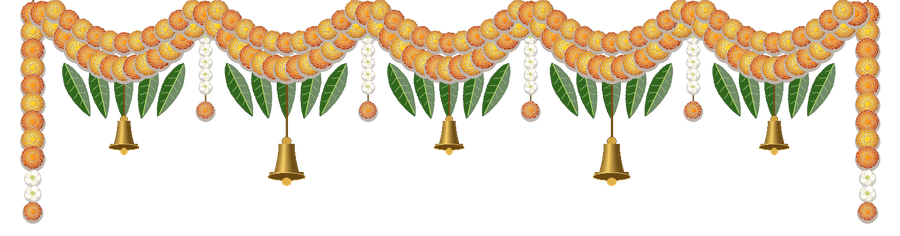
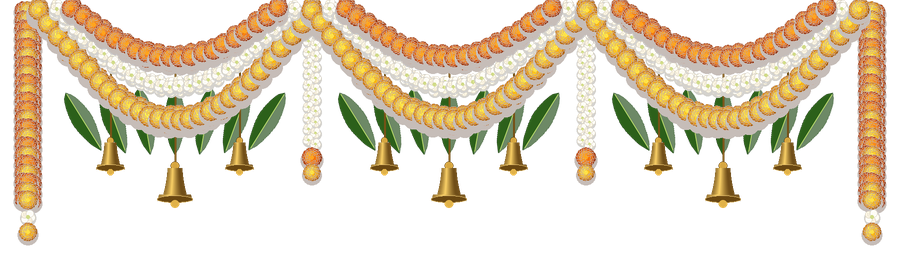
Upgrade garlands, kalash pots, editorial front-facing portraits, and painted palace footer to match references

diff --git a/app/components/CouplePortraits.js b/app/components/CouplePortraits.js
@@ -1,104 +1,90 @@
 'use client'
 
-/* Front-facing South Indian Groom in Kerala Kasavu Kurta, Mundu & Angavastram */
+/* Front-facing editorial South Indian Groom portrait matching sunil-santhiya style */
 export function FrontGroomArt() {
   return (
-    <svg className="solo-fig" viewBox="0 0 180 370" fill="none" aria-label="Vysakh portrait">
+    <svg className="solo-fig" viewBox="0 0 180 390" fill="none" aria-label="Vysakh portrait">
       <defs>
         <linearGradient id="gShirt" x1="0" y1="0" x2="1" y2="1">
-          <stop offset="0%" stopColor="#fffef8" />
-          <stop offset="65%" stopColor="#f5eedc" />
-          <stop offset="100%" stopColor="#e5d7bb" />
+          <stop offset="0%" stopColor="#ffffff" />
+          <stop offset="65%" stopColor="#f7f2e6" />
+          <stop offset="100%" stopColor="#e8dec9" />
         </linearGradient>
         <linearGradient id="gSkin" x1="0" y1="0" x2="1" y2="0">
-          <stop offset="0%" stopColor="#e2ae88" />
-          <stop offset="55%" stopColor="#d49a73" />
-          <stop offset="100%" stopColor="#be825c" />
+          <stop offset="0%" stopColor="#d9a17c" />
+          <stop offset="55%" stopColor="#cb906a" />
+          <stop offset="100%" stopColor="#b57a55" />
         </linearGradient>
         <linearGradient id="kasavu" x1="0" y1="0" x2="1" y2="0">
-          <stop offset="0%" stopColor="#b88934" />
-          <stop offset="50%" stopColor="#edd180" />
-          <stop offset="100%" stopColor="#a37626" />
+          <stop offset="0%" stopColor="#b6862e" />
+          <stop offset="50%" stopColor="#ebd07e" />
+          <stop offset="100%" stopColor="#9d7022" />
         </linearGradient>
       </defs>
 
       {/* Soft ground shadow */}
-      <ellipse cx="90" cy="356" rx="44" ry="7" fill="#b49d78" opacity="0.28" />
+      <ellipse cx="90" cy="378" rx="34" ry="5.5" fill="#9c8663" opacity="0.28" />
 
-      {/* Traditional Leather Sandals */}
-      <ellipse cx="70" cy="349" rx="14" ry="5.5" fill="#5e3820" />
-      <ellipse cx="110" cy="349" rx="14" ry="5.5" fill="#5e3820" />
-      <path d="M62 346 Q70 340 78 346 M102 346 Q110 340 118 346" stroke="#c89a4b" strokeWidth="2" />
+      {/* Traditional Sandals */}
+      <ellipse cx="77" cy="370" rx="10" ry="5" fill="#3a2315" />
+      <ellipse cx="103" cy="370" rx="10" ry="5" fill="#3a2315" />
+      <path d="M71 365 L77 372 L83 365 M97 365 L103 372 L109 365" stroke="#c89a48" strokeWidth="1.8" />
 
-      {/* Feet */}
-      <path d="M64 335 H77 L78 348 H63 Z" fill="url(#gSkin)" />
-      <path d="M103 335 H116 L117 348 H102 Z" fill="url(#gSkin)" />
+      {/* Ankles */}
+      <path d="M73 354 H81 L82 368 H72 Z" fill="url(#gSkin)" />
+      <path d="M99 354 H107 L108 368 H98 Z" fill="url(#gSkin)" />
 
-      {/* Kerala Kasavu Mundu (Front Pleated Dhoti) */}
-      <path d="M54 196 H126 L130 338 H50 Z" fill="url(#gShirt)" stroke="#cbb994" strokeWidth="1" />
-      {/* Center pleats */}
-      <path d="M84 198 V338 M96 198 V338" stroke="#d4c4a2" strokeWidth="1" />
-      {/* Gold Kasavu border & bottom trim */}
-      <rect x="50" y="324" width="80" height="8" fill="url(#kasavu)" />
-      <rect x="50" y="321" width="80" height="2" fill="#8b2238" />
-      <rect x="87" y="200" width="6" height="124" fill="url(#kasavu)" opacity="0.7" />
+      {/* Tailored White/Cream Kasavu Mundu (Dhoti) */}
+      <path d="M62 194 H118 L120 356 H60 Z" fill="url(#gShirt)" stroke="#d0c2a4" strokeWidth="1" />
+      {/* Center seam & fold shadow */}
+      <line x1="90" y1="196" x2="90" y2="356" stroke="#d5c6a8" strokeWidth="1" />
+      <rect x="74" y="194" width="3" height="162" fill="url(#kasavu)" opacity="0.78" />
+      <rect x="60" y="344" width="60" height="7" fill="url(#kasavu)" />
+      <rect x="60" y="341" width="60" height="2" fill="#8b2238" />
 
-      {/* Front-facing Hands */}
-      <rect x="38" y="160" width="14" height="44" rx="6" fill="url(#gSkin)" />
-      <rect x="128" y="160" width="14" height="44" rx="6" fill="url(#gSkin)" />
-      <circle cx="45" cy="204" r="6" fill="url(#gSkin)" />
-      <circle cx="135" cy="204" r="6" fill="url(#gSkin)" />
+      {/* Tapered Arms & Hands */}
+      <path d="M56 102 L48 164 L49 204 L57 204 L61 164 L64 114 Z" fill="url(#gShirt)" stroke="#d0c2a4" strokeWidth="0.9" />
+      <path d="M124 102 L132 164 L131 204 L123 204 L119 164 L116 114 Z" fill="url(#gShirt)" stroke="#d0c2a4" strokeWidth="0.9" />
+      <path d="M49 204 C48 214, 52 220, 56 218 C58 215, 57 207, 57 204 Z" fill="url(#gSkin)" />
+      <path d="M131 204 C132 214, 128 220, 124 218 C122 215, 123 207, 123 204 Z" fill="url(#gSkin)" />
 
-      {/* Ivory Silk Shirt / Kurta (Front View) */}
-      <path d="M50 88 Q90 80 130 88 L142 165 H126 L124 202 H56 L54 165 H38 Z" fill="url(#gShirt)" stroke="#cbb892" strokeWidth="1" />
-      {/* Mandarin collar & gold placket */}
-      <rect x="78" y="78" width="24" height="12" rx="4" fill="#f7efe0" stroke="#c89e4c" strokeWidth="1.1" />
-      <line x1="90" y1="90" x2="90" y2="140" stroke="#d5bc8a" strokeWidth="1.2" />
-      {[98, 110, 122, 134].map((by) => (
-        <circle key={by} cx="90" cy={by} r="1.6" fill="#b48535" />
-      ))}
+      {/* Tailored Ivory Silk Shirt */}
+      <path d="M62 94 Q90 88 118 94 L126 112 L119 196 H61 L54 112 Z" fill="url(#gShirt)" stroke="#d0c2a4" strokeWidth="1" />
+      <path d="M77 88 L90 98 L103 88" fill="#ffffff" stroke="#d0c2a4" strokeWidth="0.9" />
+      <line x1="90" y1="98" x2="90" y2="196" stroke="#ddd0b6" strokeWidth="1" />
 
-      {/* Angavastram (Gold & Maroon Kasavu Shawl over Right/Left Shoulder) */}
-      <path d="M104 84 L126 88 L124 196 L104 194 Z" fill="#fffdf6" stroke="#d2bc8e" strokeWidth="0.9" />
-      <rect x="106" y="85" width="4" height="110" fill="url(#kasavu)" />
-      <rect x="120" y="88" width="4" height="108" fill="url(#kasavu)" />
-      <rect x="104" y="184" width="20" height="5" fill="#8b2238" />
-      <rect x="104" y="190" width="20" height="4" fill="url(#kasavu)" />
+      {/* Gold & Maroon Angavastram draped gracefully over left shoulder */}
+      <path d="M101 90 L118 95 L120 184 L104 180 Z" fill="#fcfaf2" stroke="#d5c6a8" strokeWidth="0.8" />
+      <rect x="103" y="91" width="3" height="88" fill="url(#kasavu)" />
+      <rect x="115" y="95" width="3" height="88" fill="url(#kasavu)" />
+      <rect x="104" y="172" width="16" height="6" fill="#8f2035" />
+      <rect x="104" y="178" width="16" height="4" fill="url(#kasavu)" />
 
-      {/* Neck & Straight Front-Facing Head */}
-      <rect x="81" y="64" width="18" height="20" rx="6" fill="url(#gSkin)" />
-      {/* Ears */}
-      <ellipse cx="67" cy="48" rx="4" ry="7" fill="#c98e68" />
-      <ellipse cx="113" cy="48" rx="4" ry="7" fill="#c98e68" />
-      {/* Face */}
-      <path d="M68 38 C68 20, 112 20, 112 38 C112 58, 102 70, 90 70 C78 70, 68 58, 68 38 Z" fill="url(#gSkin)" />
+      {/* Neck & Clean Editorial Faceless Head */}
+      <path d="M82 74 H98 L100 92 Q90 98 80 92 Z" fill="url(#gSkin)" />
+      <ellipse cx="75" cy="56" rx="2.8" ry="5.5" fill="#bc825d" />
+      <ellipse cx="105" cy="56" rx="2.8" ry="5.5" fill="#bc825d" />
+      <path d="M75 46 C75 30, 105 30, 105 46 C105 64, 98 76, 90 76 C82 76, 75 64, 75 46 Z" fill="url(#gSkin)" />
       {/* Neat Front Hair */}
-      <path d="M67 42 C64 20, 78 12, 92 12 C108 12, 116 22, 113 42 C110 28, 100 24, 90 25 C78 24, 70 30, 67 42 Z" fill="#231a16" />
-      {/* Subtle Chandanam Tilak & Front Facial Features */}
-      <rect x="89" y="29" width="2" height="6" rx="1" fill="#8b2238" />
-      <path d="M75 39 Q80 37 84 39 M96 39 Q100 37 105 39" stroke="#2c201b" strokeWidth="1.6" strokeLinecap="round" />
-      <ellipse cx="80" cy="44" rx="2.3" ry="1.8" fill="#231a16" />
-      <ellipse cx="100" cy="44" rx="2.3" ry="1.8" fill="#231a16" />
-      <path d="M88 51 L90 54 L92 51" stroke="#b57a55" strokeWidth="1.2" strokeLinecap="round" fill="none" />
-      <path d="M84 59 Q90 63 96 59" stroke="#964b42" strokeWidth="1.6" strokeLinecap="round" fill="none" />
+      <path d="M74 49 C72 30, 82 24, 91 24 C102 24, 108 32, 106 49 C103 38, 96 34, 89 35 C81 34, 76 39, 74 49 Z" fill="#1d1614" />
     </svg>
   )
 }
 
-/* Front-facing South Indian Bride in Crimson-Maroon Kanjeevaram Saree & Gold Jewellery */
+/* Front-facing editorial South Indian Bride portrait matching sunil-santhiya style */
 export function FrontBrideArt() {
   return (
-    <svg className="solo-fig" viewBox="0 0 180 370" fill="none" aria-label="Sandra portrait">
+    <svg className="solo-fig" viewBox="0 0 180 390" fill="none" aria-label="Sandra portrait">
       <defs>
         <linearGradient id="bSaree" x1="0" y1="0" x2="1" y2="1">
-          <stop offset="0%" stopColor="#b92344" />
-          <stop offset="55%" stopColor="#941733" />
-          <stop offset="100%" stopColor="#690e22" />
+          <stop offset="0%" stopColor="#b41e3e" />
+          <stop offset="55%" stopColor="#8e132d" />
+          <stop offset="100%" stopColor="#630b1e" />
         </linearGradient>
         <linearGradient id="bSkin" x1="0" y1="0" x2="1" y2="0">
-          <stop offset="0%" stopColor="#ebba98" />
-          <stop offset="55%" stopColor="#dfa680" />
-          <stop offset="100%" stopColor="#ca8f69" />
+          <stop offset="0%" stopColor="#e4ae88" />
+          <stop offset="55%" stopColor="#d79b73" />
+          <stop offset="100%" stopColor="#c0845d" />
         </linearGradient>
         <linearGradient id="bGold" x1="0" y1="0" x2="1" y2="1">
           <stop offset="0%" stopColor="#fff0ad" />
@@ -107,67 +93,60 @@ export function FrontBrideArt() {
         </linearGradient>
       </defs>
 
-      <ellipse cx="90" cy="356" rx="44" ry="7" fill="#b49d78" opacity="0.28" />
+      <ellipse cx="90" cy="378" rx="34" ry="5.5" fill="#9c8663" opacity="0.28" />
 
-      {/* Jasmine Garland Behind Shoulders */}
-      <path d="M62 42 C56 64, 58 84, 65 96 M118 42 C124 64, 122 84, 115 96" stroke="#fffdf7" strokeWidth="8" strokeLinecap="round" strokeDasharray="2 7" />
+      {/* Lush White Jasmine Garland (Malli Poo) behind shoulders & hair */}
+      <path d="M72 44 C66 64, 66 86, 72 98 M108 44 C114 64, 114 86, 108 98" stroke="#fffef8" strokeWidth="8.5" strokeLinecap="round" strokeDasharray="2 6" />
+      <path d="M72 44 C66 64, 66 86, 72 98 M108 44 C114 64, 114 86, 108 98" stroke="#d4dec6" strokeWidth="2" strokeLinecap="round" strokeDasharray="1 7" />
 
       {/* Feet */}
-      <ellipse cx="78" cy="346" rx="8" ry="6" fill="url(#bSkin)" />
-      <ellipse cx="102" cy="346" rx="8" ry="6" fill="url(#bSkin)" />
-      <path d="M72 344 H84 M96 344 H108" stroke="url(#bGold)" strokeWidth="1.5" />
+      <ellipse cx="81" cy="370" rx="7" ry="4.5" fill="url(#bSkin)" />
+      <ellipse cx="99" cy="370" rx="7" ry="4.5" fill="url(#bSkin)" />
+      <path d="M76 368 H86 M94 368 H104" stroke="url(#bGold)" strokeWidth="1.4" />
 
-      {/* Crimson Kanjeevaram Saree Skirt (Front Pleated) */}
-      <path d="M58 176 H122 L134 342 H46 Z" fill="url(#bSaree)" stroke="#751128" strokeWidth="1" />
+      {/* Crimson Kanjeevaram Saree Skirt (Slim Draped Front Silhouette) */}
+      <path d="M68 176 H112 L124 365 H56 Z" fill="url(#bSaree)" stroke="#680c20" strokeWidth="1" />
       {/* Center pleats */}
-      <path d="M84 180 L80 342 M90 180 V342 M96 180 L100 342" stroke="#610c1f" strokeWidth="1.1" opacity="0.55" />
-      {/* Wide Antique Gold Zari Hem */}
-      <path d="M48 318 H132 L134 342 H46 Z" fill="url(#bGold)" />
-      <path d="M47 324 H133 M46 336 H134" stroke="#751128" strokeWidth="1.2" opacity="0.65" />
+      <path d="M84 180 L81 364 M90 180 V364 M96 180 L99 364" stroke="#530818" strokeWidth="1" opacity="0.55" />
+      {/* Wide Antique Gold Zari Border */}
+      <path d="M57 344 H123 L124 365 H56 Z" fill="url(#bGold)" />
+      <path d="M57 349 H123 M56 360 H124" stroke="#680c20" strokeWidth="1.1" opacity="0.65" />
 
-      {/* Front Blouse & Arms */}
-      <path d="M45 142 L56 196 H66 L62 142 Z" fill="url(#bSkin)" />
-      <path d="M135 142 L124 196 H114 L118 142 Z" fill="url(#bSkin)" />
-      {/* Gold Bangles */}
-      <rect x="52" y="182" width="12" height="7" rx="2" fill="url(#bGold)" />
-      <rect x="116" y="182" width="12" height="7" rx="2" fill="url(#bGold)" />
-      <circle cx="60" cy="200" r="5.5" fill="url(#bSkin)" />
-      <circle cx="120" cy="200" r="5.5" fill="url(#bSkin)" />
+      {/* Slender Arms & Gold Bangles */}
+      <path d="M62 110 L54 166 L55 202 L62 202 L66 164 L70 120 Z" fill="url(#bSkin)" />
+      <path d="M118 110 L126 166 L125 202 L118 202 L114 164 L110 120 Z" fill="url(#bSkin)" />
+      <rect x="54" y="186" width="9" height="8" rx="2" fill="url(#bGold)" />
+      <rect x="117" y="186" width="9" height="8" rx="2" fill="url(#bGold)" />
+      <path d="M55 202 C54 210, 58 215, 61 213 C63 210, 62 204, 62 202 Z" fill="url(#bSkin)" />
+      <path d="M125 202 C126 210, 122 215, 119 213 C117 210, 118 204, 118 202 Z" fill="url(#bSkin)" />
 
       {/* Saree Blouse */}
-      <path d="M56 90 Q90 84 124 90 L136 144 H118 L118 176 H62 L62 144 H44 Z" fill="#9a1936" stroke="#720f24" strokeWidth="1" />
-      <rect x="44" y="138" width="18" height="6" fill="url(#bGold)" />
-      <rect x="118" y="138" width="18" height="6" fill="url(#bGold)" />
+      <path d="M66 96 Q90 90 114 96 L120 138 H108 L108 176 H72 L72 138 H60 Z" fill="#941630" stroke="#6b0d20" strokeWidth="1" />
+      <rect x="59" y="132" width="13" height="5" fill="url(#bGold)" />
+      <rect x="108" y="132" width="13" height="5" fill="url(#bGold)" />
 
-      {/* Diagonal Gold Pallu Drape */}
-      <path d="M58 90 L76 90 L124 222 L110 232 Z" fill="url(#bGold)" opacity="0.92" />
-      <path d="M62 90 L120 225" stroke="#85132b" strokeWidth="1.4" />
+      {/* Draped Diagonal Gold Zari Pallu */}
+      <path d="M68 96 L83 96 L116 218 L104 226 Z" fill="url(#bGold)" opacity="0.92" />
+      <path d="M72 96 L113 221" stroke="#7d1026" strokeWidth="1.2" />
 
       {/* Gold Oddiyanam Waist Belt */}
-      <rect x="60" y="172" width="60" height="7" rx="3" fill="url(#bGold)" stroke="#8c5f14" strokeWidth="0.8" />
+      <rect x="70" y="172" width="40" height="6" rx="2.5" fill="url(#bGold)" stroke="#8c5f14" strokeWidth="0.7" />
 
       {/* Layered Gold Temple Necklaces */}
-      <path d="M74 88 Q90 104 106 88" stroke="url(#bGold)" strokeWidth="4" fill="none" />
-      <path d="M68 92 Q90 132 112 92" stroke="url(#bGold)" strokeWidth="3.5" fill="none" />
-      <circle cx="90" cy="116" r="4.5" fill="url(#bGold)" stroke="#8c1830" strokeWidth="1" />
+      <path d="M78 96 Q90 110 102 96" stroke="url(#bGold)" strokeWidth="3.5" fill="none" />
+      <path d="M73 100 Q90 132 107 100" stroke="url(#bGold)" strokeWidth="3" fill="none" />
+      <circle cx="90" cy="118" r="3.8" fill="url(#bGold)" stroke="#8c1830" strokeWidth="0.9" />
 
-      {/* Neck & Straight Front-Facing Head */}
-      <rect x="82" y="66" width="16" height="22" rx="6" fill="url(#bSkin)" />
+      {/* Neck & Clean Editorial Faceless Head */}
+      <path d="M83 76 H97 L99 94 Q90 98 81 94 Z" fill="url(#bSkin)" />
       {/* Gold Jhumkas */}
-      <path d="M66 50 L62 64 H70 Z M114 50 L110 64 H118 Z" fill="url(#bGold)" />
+      <path d="M74 58 L71 69 H77 Z M106 58 L103 69 H109 Z" fill="url(#bGold)" />
       {/* Face */}
-      <path d="M69 40 C69 22, 111 22, 111 40 C111 58, 101 70, 90 70 C79 70, 69 58, 69 40 Z" fill="url(#bSkin)" />
-      {/* Center-parted Dark Hair & Maang Tikka */}
-      <path d="M67 46 C65 20, 77 13, 90 13 C103 13, 115 20, 113 46 C108 30, 98 25, 90 24 C82 25, 72 30, 67 46 Z" fill="#1e1613" />
-      <line x1="90" y1="15" x2="90" y2="27" stroke="url(#bGold)" strokeWidth="2" />
-      <circle cx="90" cy="29" r="3" fill="url(#bGold)" />
-      {/* Bindi & Front Smile */}
-      <circle cx="90" cy="36" r="1.8" fill="#a81834" />
-      <path d="M76 40 Q81 38 85 40 M95 40 Q99 38 104 40" stroke="#261c18" strokeWidth="1.5" strokeLinecap="round" />
-      <ellipse cx="80.5" cy="45" rx="2.2" ry="1.8" fill="#1e1613" />
-      <ellipse cx="99.5" cy="45" rx="2.2" ry="1.8" fill="#1e1613" />
-      <path d="M88 52 L90 55 L92 52" stroke="#bd825f" strokeWidth="1.1" strokeLinecap="round" fill="none" />
-      <path d="M84 60 Q90 64 96 60" stroke="#a63646" strokeWidth="1.7" strokeLinecap="round" fill="none" />
+      <path d="M76 48 C76 32, 104 32, 104 48 C104 65, 97 77, 90 77 C83 77, 76 65, 76 48 Z" fill="url(#bSkin)" />
+      {/* Center-parted Dark Hair & Gold Maang Tikka */}
+      <path d="M74 54 C72 32, 81 25, 90 25 C99 25, 108 32, 106 54 C102 40, 96 36, 90 36 C84 36, 78 40, 74 54 Z" fill="#1a1311" />
+      <line x1="90" y1="26" x2="90" y2="37" stroke="url(#bGold)" strokeWidth="1.6" />
+      <circle cx="90" cy="39" r="2.4" fill="url(#bGold)" />
     </svg>
   )
 }

diff --git a/app/components/ThankYouSection.js b/app/components/ThankYouSection.js
@@ -20,13 +20,13 @@ export default function ThankYouSection({ data }) {
       </p>
 
       <div className="ty-names-row reveal">
-        <img src="/art/kalash.png" alt="" className="kalash-side-img" aria-hidden="true" />
+        <img src="/art/kalash-side.png" alt="" className="kalash-side-img" aria-hidden="true" />
         <div className="ty-names-stack">
           <span className="ty-name">{data.groom}</span>
           <span className="ty-amp">&amp;</span>
           <span className="ty-name">{data.bride}</span>
         </div>
-        <img src="/art/kalash.png" alt="" className="kalash-side-img" aria-hidden="true" />
+        <img src="/art/kalash-side.png" alt="" className="kalash-side-img" aria-hidden="true" />
       </div>
 
       <div className="short-gold-line" style={{ margin: '18px auto 14px' }} />
@@ -39,23 +39,8 @@ export default function ThankYouSection({ data }) {
         <p className="ty-date">13 • 12 • 2026</p>
       </div>
 
-      {/* Warm Golden Palace Silhouette Strip at Bottom */}
-      <svg className="ty-palace-strip" viewBox="0 0 420 62" preserveAspectRatio="none" aria-hidden="true">
-        <defs>
-          <linearGradient id="palStrip" x1="0" y1="0" x2="0" y2="1">
-            <stop offset="0%" stopColor="#e8c383" />
-            <stop offset="100%" stopColor="#c48c46" />
-          </linearGradient>
-        </defs>
-        <rect width="420" height="62" fill="url(#palStrip)" />
-        {[12, 82, 152, 222, 292, 362].map((x, idx) => (
-          <g key={idx}>
-            <path d={`M${x} 62 V24 Q${x + 23} 3 ${x + 46} 24 V62 Z`} fill="#8d501d" opacity="0.56" />
-            <path d={`M${x + 5} 62 V27 Q${x + 23} 10 ${x + 41} 27 V62`} stroke="#f7dc9e" strokeWidth="1" fill="none" opacity="0.7" />
-            <circle cx={x + 23} cy="32" r="4.5" fill="#fff0ad" opacity="0.82" />
-          </g>
-        ))}
-      </svg>
+      {/* Painted Palace Colonnade Strip at Bottom */}
+      <img src="/art/palace-footer.jpg" alt="" className="ty-palace-img" aria-hidden="true" />
     </footer>
   )
 }

diff --git a/app/globals.css b/app/globals.css
@@ -894,6 +894,7 @@ body {
   justify-content: center;
   gap: 10px;
   margin-top: 2px;
+  padding-bottom: 18px;
 }
 
 /* ================= THANK YOU FINALE ================= */
@@ -989,10 +990,10 @@ body {
   margin-top: 4px;
 }
 
-.ty-palace-strip {
+.ty-palace-img {
   width: calc(100% + 36px);
   margin-left: -18px;
-  height: 52px;
+  height: auto;
   display: block;
 }
 
@@ -1010,11 +1011,12 @@ body {
 
 .floating-controls {
   position: fixed;
-  right: max(14px, env(safe-area-inset-right));
-  bottom: max(14px, env(safe-area-inset-bottom));
+  right: max(12px, env(safe-area-inset-right));
+  bottom: max(12px, env(safe-area-inset-bottom));
   z-index: 40;
   display: flex;
   gap: 6px;
+  opacity: 0.92;
 }
 
 .ctrl-chip {
